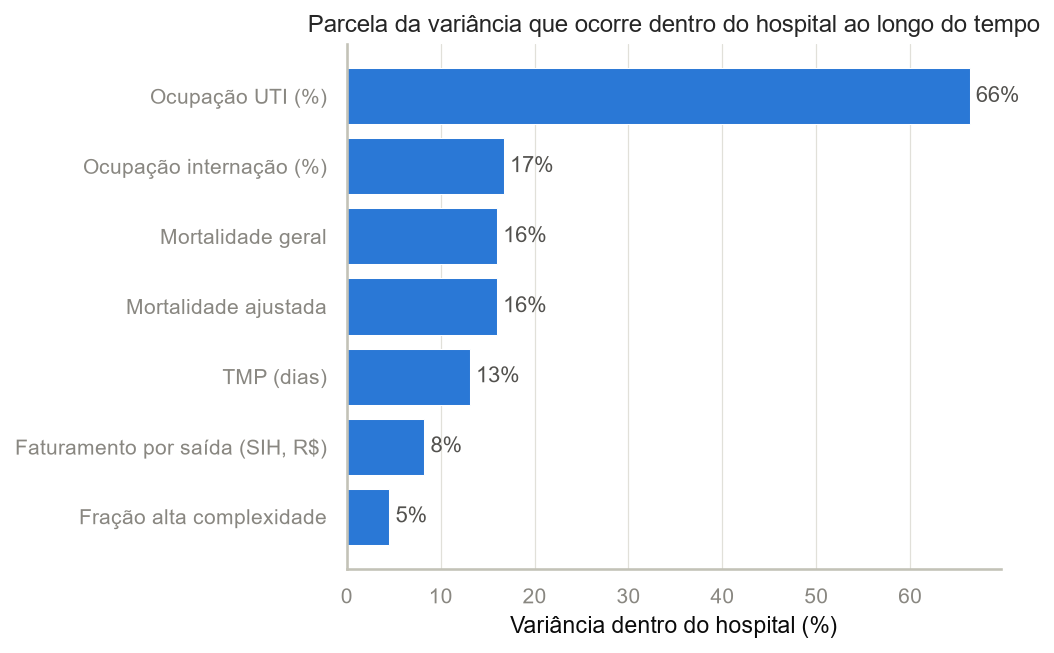
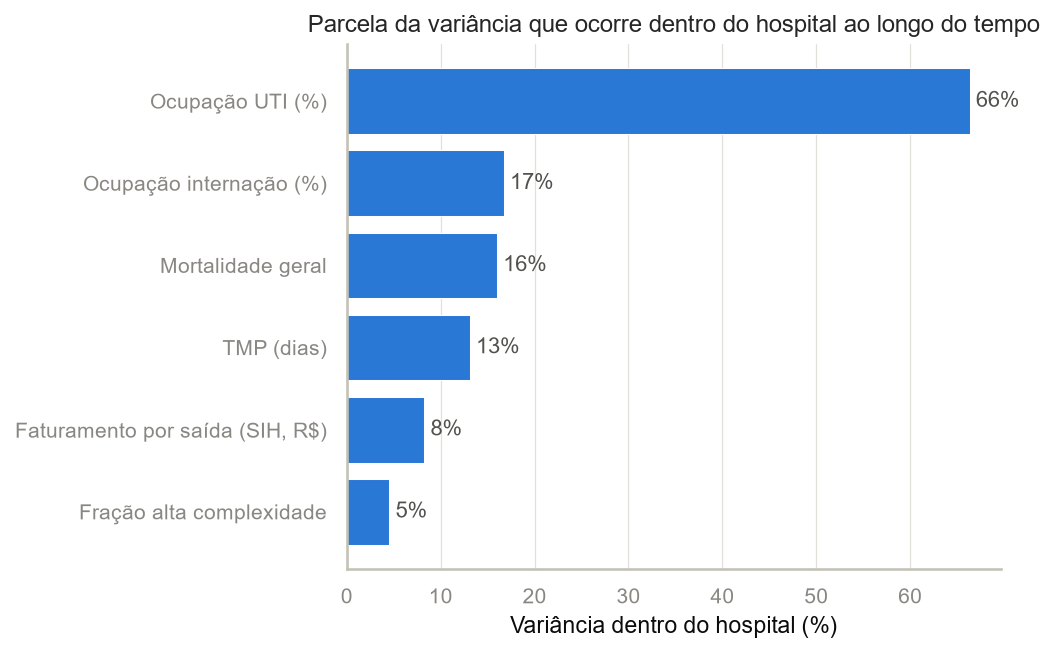
fix: a mortalidade ajustada sai das figuras, onde 1b42a89 nao tinha chegado
O commit 1b42a89 tirou a metrica de todo o TEXTO e nao tocou nos PNGs. E o
modo de falha que o PENDENCIAS secao 7 documenta: alterar so o .tex cria erro
de classe 2, texto contra figura da mesma pagina.

UMA figura tinha a metrica como componente: fig_ae_14_variancia_within.png,
na Secao 8. Sete barras, com "Mortalidade ajustada" em 16%, sob um texto que
diz "em cinco dos seis indicadores". Agora seis, com os demais identicos
(66, 17, 16, 13, 8, 5).

CORRECAO NA ORIGEM, respeitando a regra 4. analise_sih.py define a lista de
indicadores e esta na lista de protegidos: ficou intacto. O filtro entra em
analise_exploratoria.py, com o motivo no comentario.

PROVA de que nada alem da metrica mudou: as onze tabelas afetadas foram
comparadas contra HEAD removendo do lado antigo so as linhas e colunas da
ajustada. As onze deram identico, ate 1e-9.

ACHADO COLATERAL, mesma classe. Regerar mostrou que
fig_ae_10_correlacao_spearman.png imprimia "Complexidade estrutural" no eixo,
enquanto a legenda da mesma pagina diz "complexidade Barcelona". O commit
6d1598c (A2) renomeou no script e nos .tex e nao regerou o PNG. Latente desde
entao. Corrigido de graca.

Mais 12 PNGs orfaos apagados (histograma, violino, faixa, porte, tendencia,
categoria, mistura e os cinco conversores), que o script ja nao produz.

NAO REMOVIDO, e o motivo importa: estimacao.py tambem roda a ajustada e
produz fig_est_04_qq_mort_ajustada_zib.png, que NAO esta no documento. A
[…]

diff --git a/analise_exploratoria.py b/analise_exploratoria.py
@@ -47,9 +47,21 @@ import dominio_ocupacao_uti                     # domínio da ocupação de UTI 
 
 PASTA_FIG_AE = base.PASTA_ANALISES / "figuras_analise_exploratoria"
 
-INDICADORES = base.INDICADORES                  # 5 indicadores oficiais
+# A1 (decisão de 29/07/2026): a MORTALIDADE AJUSTADA (`mort_sem_excl`, que
+# exclui óbitos fetais, maternos e neonatais) saiu do documento inteiro. Ela
+# correlaciona 1,000 em Spearman com a mortalidade geral e nunca sustentou
+# achado próprio: mantê-la duplicava uma linha em toda tabela e uma barra em
+# toda figura, sem acrescentar informação.
+#
+# A remoção é feita AQUI e não em `analise_sih.py`, que define a lista
+# original, porque aquele arquivo está na lista de protegidos do protocolo de
+# trabalho (regra 4), ao lado de `painel_definitivo.csv` e
+# `construir_painel_definitivo.py`. A lista de lá permanece intacta; esta
+# camada descritiva filtra ao consumi-la.
+MORT_AJUSTADA = "mort_sem_excl"
+INDICADORES = [c for c in base.INDICADORES if c != MORT_AJUSTADA]  # 4 oficiais
 OCUPACOES   = ["ocupacao_internacao", "ocupacao_uti"]
-IND7        = INDICADORES + OCUPACOES
+IND7        = INDICADORES + OCUPACOES           # 6 indicadores descritivos
 
 # Item 1.5 (decisão de 14/07/2026): a camada descritiva usa o faturamento
 # REAL (custo_real = custo_saida × fator IPCA, preços de 2025). Nas FIGURAS
@@ -330,7 +342,7 @@ def univariada(painel: pd.DataFrame):
 
 def distribucional_taxas(painel: pd.DataFrame):
     print("\n[2a] TAXAS: adequação de Beta/ZOIB (inflação em zero e em um)")
-    taxas = ["mort_all", "mort_sem_excl", "pct_alta_complex"]
+    taxas = ["mort_all", "pct_alta_complex"]        # A1: sem a ajustada
     linhas = []
     for c in taxas:
         x = painel[c].dropna()
@@ -411,7 +423,7 @@ def distribucional_mistura_mortalidade(painel: pd.DataFrame):
           "decomposição por subpopulação real")
 
     linhas, ajustes = [], {}
-    for c in ["mort_all", "mort_sem_excl"]:
+    for c in ["mort_all"]:                          # A1: sem a ajustada
         x = painel[c][(painel[c] > 0) & (painel[c] < 1)].to_numpy()
         a, b, _, _ = stats.beta.fit(x, floc=0, fscale=1)
         aic1 = 4 - 2 * np.sum(stats.beta.logpdf(x, a, b))
@@ -455,8 +467,8 @@ def distribucional_mistura_mortalidade(painel: pd.DataFrame):
     tab = pd.DataFrame(linhas).set_index("indicador").round(4)
     _tab(tab, "tab_ae_mistura_mortalidade.csv")
 
-    rotulos_pan = {c: ROT[c] for c in ["mort_all", "mort_sem_excl"]}
-    for c in ["mort_all", "mort_sem_excl"]:
+    rotulos_pan = {c: ROT[c] for c in ["mort_all"]}   # A1: sem a ajustada
+    for c in ["mort_all"]:
         x, (a, b), par = ajustes[c]
         fig, ax = plt.subplots(figsize=(7, 4.5))
         cont, bordas, _ = ax.hist(x, bins=60, color=COR_SERIE,
@@ -1033,10 +1045,13 @@ def correlacoes(painel: pd.DataFrame):
     print("[7] CORRELAÇÕES DE SPEARMAN (complexidade: versão estrutural, "
           "salvaguarda de circularidade)")
     print("=" * 70)
-    cols = [c for c in IND7 if c != "mort_sem_excl"]
-    cols += ["complexidade_estrutural"]
-    print("  Mortalidade ajustada omitida do mapa: correlações idênticas às "
-          "da mortalidade geral (Spearman de 1,000 entre as duas).")
+    # a exclusão da mortalidade ajustada já vem de IND7 desde A1 (29/07/2026);
+    # este mapa a omitia sozinho desde antes, pelo motivo abaixo, que continua
+    # sendo a razão de ela ter saído do documento inteiro.
+    cols = list(IND7) + ["complexidade_estrutural"]
+    print("  Mortalidade ajustada fora do documento (A1): correlações "
+          "idênticas às da mortalidade geral (Spearman de 1,000 entre as "
+          "duas).")
     corr = painel[cols].corr(method="spearman").round(3)
     _tab(corr, "tab_ae_correlacao_spearman.csv")
     print(corr.to_string())
